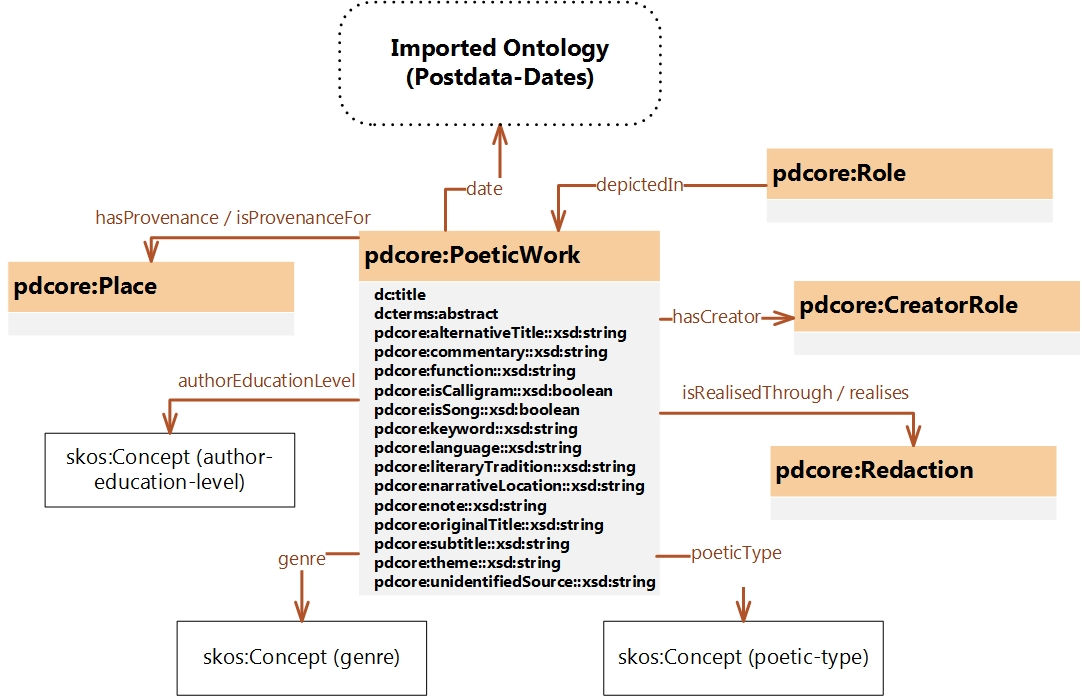
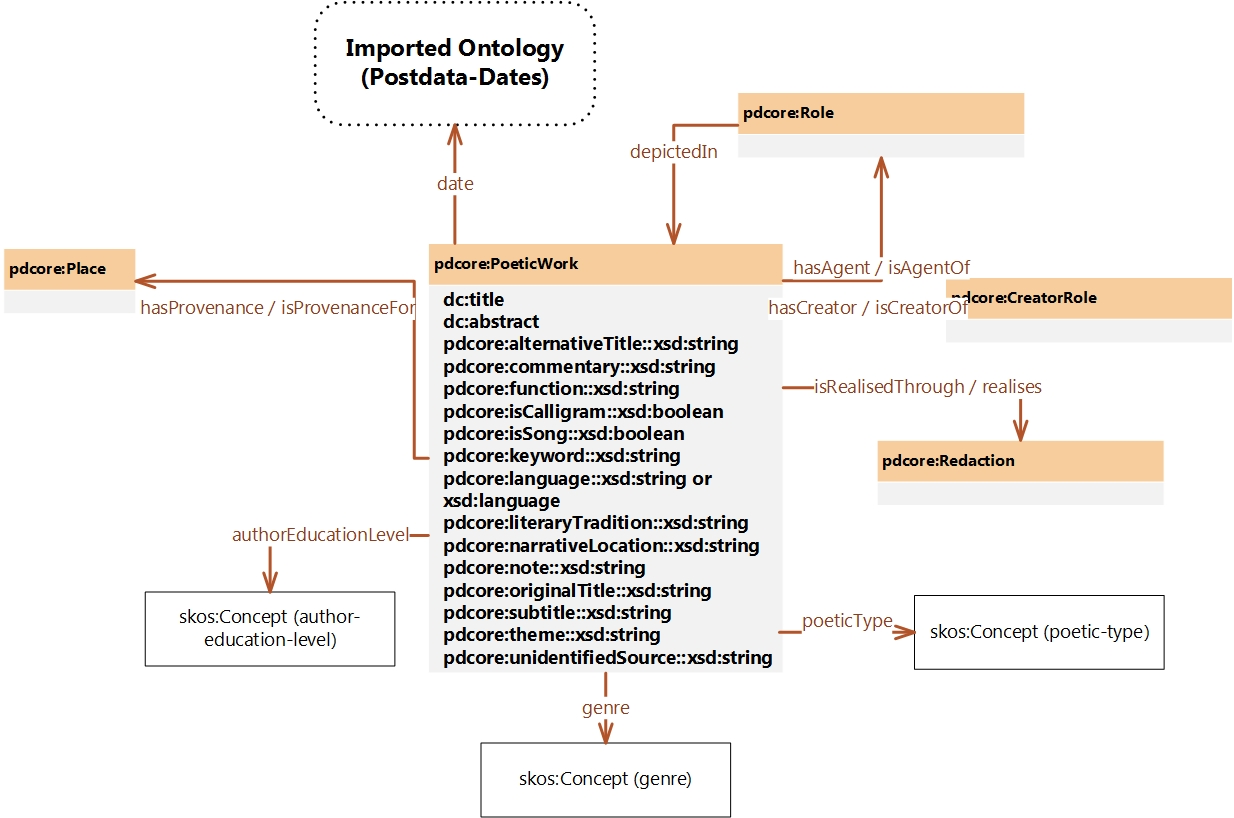
Changed ontology according to last changes from Mª Luisa. Updated diagrams.

diff --git a/Documentation/index-en.html b/Documentation/index-en.html
@@ -1,6 +1,7 @@
 <!DOCTYPE html>
 <html>
 <head>
+    <img src="http://postdata.linhd.uned.es/ontology/logo.png" width="100"/>
 <meta http-equiv="content-type" content="text/html; charset=UTF-8" />
  <link rel="stylesheet" href="resources/primer.css" media="screen" />    <link rel="stylesheet" href="resources/rec.css" media="screen" />    <link rel="stylesheet" href="resources/extra.css" media="screen" />    <link rel="stylesheet" href="resources/owl.css" media="screen" />    <title>POSTDATA core ontology</title>
 
@@ -85,14 +86,14 @@ function loadTOC(){
     <dd><a href="https://www.linkedin.com/in/aitordiazmedina/"/>Aitor Díaz Medina (LINHD_POSTDATA-UNED)</a></dd><dd>
     <a href="https://www.linkedin.com/in/álvaro-pérez-pozo-ab241154/">  Alvaro Pérez (LINHD_POSTDATA-UNED) </a>
 </dd><dd><a href="https://orcid.org/0000-0002-9152-4402"> Bruno Sartini (Bolonia University)</a></dd>
-    <dd> <a href="https://orcid.org/0000-0001-7782-206X"> Helena Bermúdez Sabel </a>
+    <dd> <a href="https://orcid.org/0000-0001-7782-206X"> Helena Bermúdez Sabel (LINHD_POSTDATA-UNED) </a>
     </dd><dd><a href="https://www.linkedin.com/in/versae/"> Javier de la Rosa (LINHD_POSTDATA-UNED) </a>
 </dd><dd><a href="https://orcid.org/0000-0003-3489-2193"> Laura Hernández Lorenzo (LINHD_POSTDATA-UNED)</a>
 </dd><dd><a href="mdesisto@scc.uned.es">Mirella De Sisto (LINHD_POSTDATA-UNED)</a>
-</dd><dd><a href="https://orcid.org/0000-0002-9416-3147">  Mª Luisa Díez Platas </a>
+</dd><dd><a href="https://orcid.org/0000-0002-9416-3147">  Mª Luisa Díez Platas (LINHD_POSTDATA-UNED) </a>
 </dd><dd><a href="http://www.linkedin.com/in/omar-k-0959a8129"> Omar Khalil Gómez (LINHD_POSTDATA-UNED) </a>
 </dd><dd><a href="http://orcid.org/0000-0002-9260-0753">  Oscar Corcho (Universidad Politécnica de Madrid) </a>
-</dd><dd><a href="srosmu@gmail.com"> Salvador Ros Muñoz (UNED) </a>
+</dd><dd><a href="srosmu@gmail.com"> Salvador Ros Muñoz (LINHD_POSTDATA-UNED) </a>
 </dd>
 
 <dt>Publisher:</dt>
